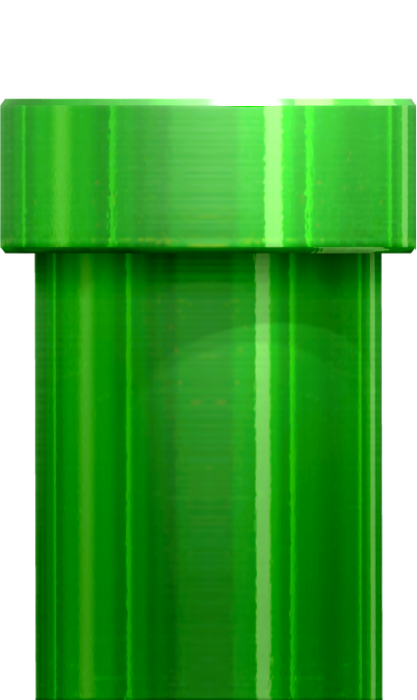
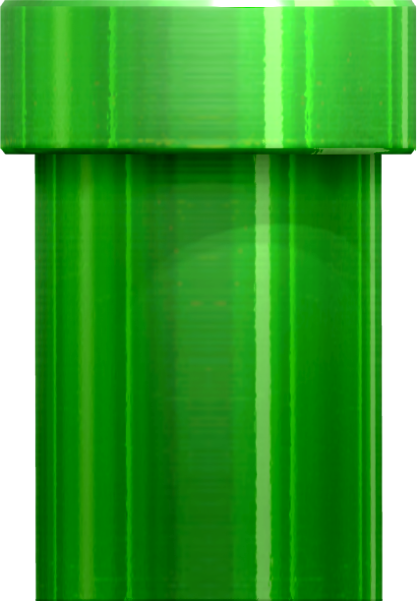
naprawiona kolizja, zmieniony skin ducha i rury zeby naprawic kolizje

diff --git a/Źródło.cpp b/Źródło.cpp
@@ -10,27 +10,27 @@ int main() {
 
 	Ptak ptak({ 400.0f, 500.0f });
 	ptak.load_texture("duch.png");
-	
 
-	
 
-	Rura rura({ 450.0f, 600.0f }, NORMAL);
-	rura.load_texture("rura.png");
+
+
+	//Rura rura({ 450.0f, 600.0f }, NORMAL);
+	//rura.load_texture("rura.png");
 	std::vector<std::pair<Rura, Rura>> Para_rur(ilosc_rur);
-	for (int i = 0; i < ilosc_rur ; i++)
+	for (int i = 0; i < ilosc_rur; i++)
 	{
-	Wygeneruj_rury(Para_rur[i], {1000.f+i*500.f, 500.f}, "rura.png");
+		Wygeneruj_rury(Para_rur[i], { 1000.f + i * 500.f, 500.f }, "rura.png");
 	}
-	
+
 	Tlo tlo({ 500.0f, 500.0f });
 	tlo.load_texture("tlo.png");
-	
+
 
 	sf::Clock clock;
 	sf::Time elapsedTime;
 
-	
-	
+
+
 
 	clock.restart();
 	while (window.isOpen()) {
@@ -51,7 +51,7 @@ int main() {
 			return rect1.intersects(rect2);
 		}*/
 		//napisac if kolizji uzywajac getGlobalBounds().instects(obiekt.getGlobalBounds());
-		
+
 		window.clear(sf::Color::Blue);
 
 		elapsedTime = clock.restart();
@@ -63,31 +63,34 @@ int main() {
 		//rura.oblicz_przesuniecie(elapsedTime.asSeconds());
 		for (int i = 0; i < ilosc_rur; i++)
 		{
-		Para_rur[i].first.oblicz_przesuniecie(elapsedTime.asSeconds());
-		Para_rur[i].second.oblicz_przesuniecie(elapsedTime.asSeconds());
+			Para_rur[i].first.oblicz_przesuniecie(elapsedTime.asSeconds());
+			Para_rur[i].second.oblicz_przesuniecie(elapsedTime.asSeconds());
 
-		window.draw(Para_rur[i].first);
-		window.draw(Para_rur[i].second);
+			window.draw(Para_rur[i].first);
+			window.draw(Para_rur[i].second);
 
-		if (ptak.getGlobalBounds().intersects(Para_rur[i].getGlobalBounds())) {
-			std::cout << "Dotknalem" << std::endl;
-		}
+			if (ptak.getGlobalBounds().intersects(Para_rur[i].first.getGlobalBounds())) {
+				std::cout << "Dotknalem dol" << std::endl;
+			}
+			else if (ptak.getGlobalBounds().intersects(Para_rur[i].second.getGlobalBounds())) {
+				std::cout << "Dotknalem gore" << std::endl;
+			}
 		}
 
 		if (sf::Keyboard::isKeyPressed(sf::Keyboard::Space)) {
 			ptak.skok();
 		}
-		
 
-		
+
+
 		window.draw(ptak);
 
-		
 
-		window.draw(rura);
 
-		
-		
+		//window.draw(rura);
+
+
+
 
 		window.display();
 	}

diff --git a/FlappyBird.h b/FlappyBird.h
@@ -37,7 +37,7 @@ private:
 };
 
 sf::FloatRect Ptak::getGlobalBounds() {
-	bounds_ptak = sprite_ptak.getGlobalBounds();
+	return sprite_ptak.getGlobalBounds();
 }
 
 
@@ -126,7 +126,7 @@ private:
 unsigned int Rura::last_id = 0;
 
 sf::FloatRect Rura::getGlobalBounds() {
-	bounds_rura = sprite_rura.getGlobalBounds();
+	return sprite_rura.getGlobalBounds();
 }
 
 
@@ -175,7 +175,7 @@ void Rura::update() {
 }
 
 void Wygeneruj_rury(std::pair<Rura, Rura>& Para_rur, sf::Vector2f pozycja, std::string texture_rura) {
-	const float rozmiar_szpary = 100.f; //trzeba zaimprementowac jako parametr
+	const float rozmiar_szpary = 300.f; //trzeba zaimprementowac jako parametr
 
 	Para_rur.first = Rura{ {pozycja.x, pozycja.y + rozmiar_szpary * 0.5f }, NORMAL };
 	Para_rur.second = Rura{ {pozycja.x, pozycja.y - rozmiar_szpary * 0.5f }, ROTATED };
